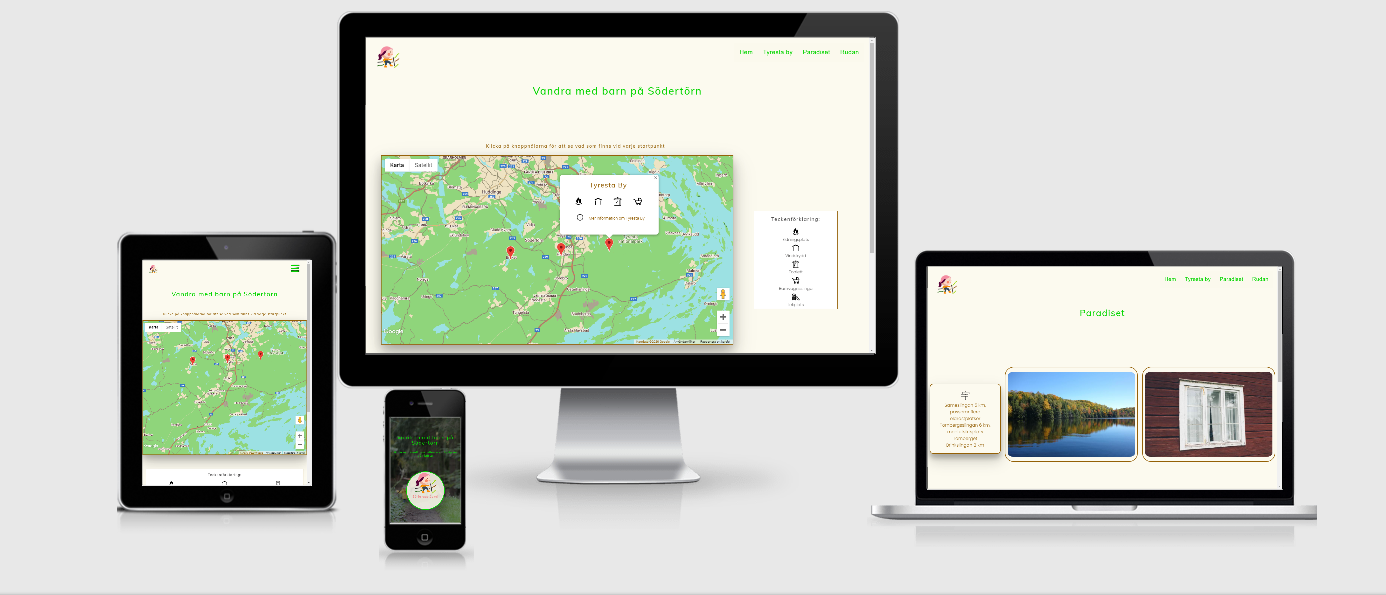
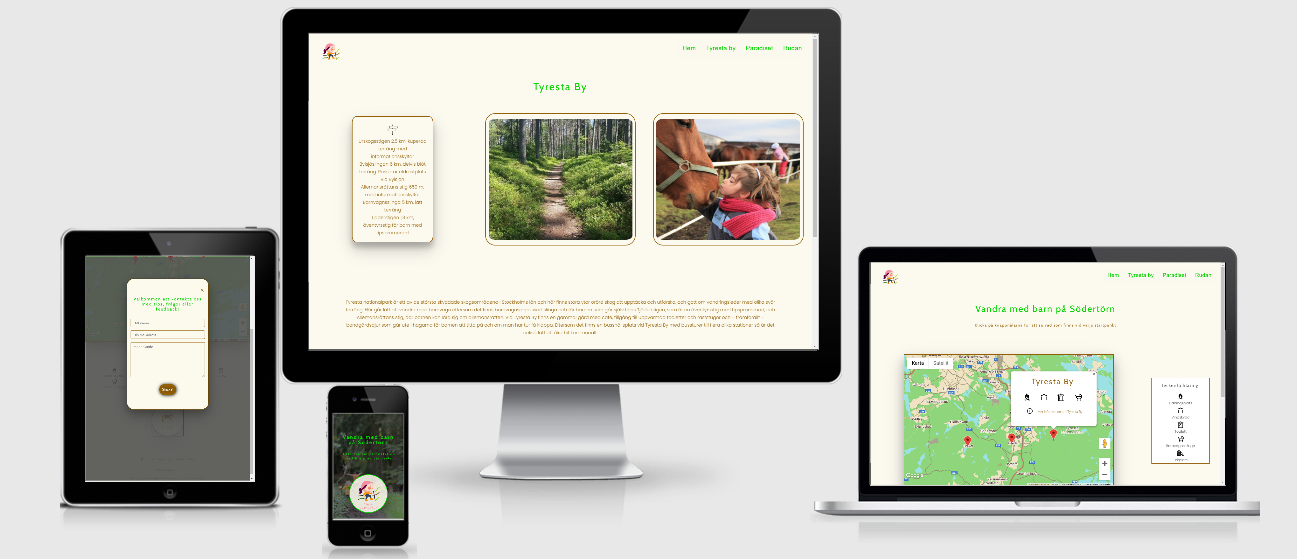
Added screenshots of website in user stories testing

diff --git a/assets/css/style.css b/assets/css/style.css
@@ -437,7 +437,10 @@ a {
 	.info-images {
 		padding: 1rem 0.5rem;
 		max-width: 31.25rem;
-	}
+    }
+    .contact-modal {
+        bottom: -30rem;
+    }
 	.footer-icon {
 		width: 2%;
 	}
@@ -497,8 +500,7 @@ a {
 	}
 	.contact-btn {
 		margin: 6rem 0 3rem;
-	}
-}
+    }
 
 @media screen and (min-width: 1200px) {
 	.landing-content {
@@ -509,4 +511,4 @@ a {
 		width: 60%;
 		margin: 2rem 7.5rem;
 	}
-}
+}}

diff --git a/TESTING.md b/TESTING.md
@@ -28,8 +28,11 @@ The page has been manually tested on the functionality of the following:
 ### User stories testing
 
 1. As a first time user, I want to quickly get an overview of what this site is for 
+
     * The landing page displays an image showing an adult and several children walking in nature, and the heading on this page tells that ypu can find places to hike with your children
       with the help from this site
+
+![Image of landing page](./assets/images/landing-page.png)
 
 2. As a user, I want to be able to easily navigate to different pages on the site and back again
 
@@ -37,10 +40,17 @@ The page has been manually tested on the functionality of the following:
     * A logo is present in navigation bar, in the top left hand side of the screen, on all pages except for landing page, and this logo when clicked takes the user back to landing pag
     * The footer contains link to all pages except from landing page, which ensures that the user can navigate to different pages from the bottom of pages as well
 
+![Image of navigation bar](./assets/images/navbar.png)
+![Image of footer navigation links](./assets/images/footer.png)
+
 2. As a hiker with children, I want to easily find suitable hiking trails in the area of Södertörn
+
     * The map page provides a map showing the area of Södertörn with pins marking different locations from where the user can access hiking trails in this area
     * When the user clicks a pin on the map an info window appears and shows an overview of what services are accessible on that location, providing the user with information aiding 
       in a decision about what hiking trail might be suitable
+
+![Image of map with pins](./assets/images/map.png)
+![Image of info-window](./assets/images/info-window.png)
 
 3. As a hiker with children, I want to find out if the starting points/hiking trails provide access to:
  * Prepared fireplaces so I can make warm food for myself and the children
@@ -51,19 +61,27 @@ The page has been manually tested on the functionality of the following:
      * The info windows that appear when the user clicks on a pin on the map contains icons that show if each of the above services are available from the location. The meaning of
        the icons are explained in a text box next to the map.
      * The info pages about the locations contains information about the length of the trails available from each location
-  
+
+![Image of info-window](./assets/images/info-window.png)
+![Image of trail-info](./assets/images/trail-info.png) 
 
 4. As a hiker with children, I want to be able to find more in-depth information about and some pictures of the different trails and starting points so I can show them to my children 
    and spark their interest in going there
+
      * The info pages about each location contains in-depth information and images of that location
      * The information provided is of a suitable length to be read to children without them losing their interest
      * There are only two images on each page and they are chosen to show some the characteristics of the location that could be of interest to a child
 
+![Image of images on info-page](./assets/images/info-images.png) 
+![Image of text on info-page](./assets/images/info-text.png) 
+
 5. As a user, I want to be able to contact the website administrator to alert them if something on the site is not working, or to suggest another
    starting point to be added to the site
+
      * All pages except for the landing page contains a contact button above the footer. By clicking the contact button the user gets access to a contact form which sends emails
        directly to the site administrator
-
+![Image of contact-button](./assets/images/contact-btn.png) 
+![Image of contact-form](./assets/images/contact-form.png) 
        
 
 

diff --git a/README.md b/README.md
@@ -312,7 +312,7 @@ now be created locally on your machine.
 * Send button created with, and its code copied from, [CSS Button creator](https://cssbuttoncreator.com/)
 
 * Dark layer on background image on landing page: 
-  [Thread on stack overflow](https://stackoverflow.com/questions/5770341/i-do-not-want-to-inherit-the-child-opacity-from-the-parent-in-css) 
+  [Thread on stack overflow](https://stackoverflow.com/questions/5770341/i-do-not-want-to-inherit-the-child-opacity-from-the-parent-in-css) and
   [Webdesign blog](https://webdesign.tutsplus.com/articles/css-tips-for-better-color-and-contrast-accessibility--cms-34472)
 
 
@@ -321,7 +321,7 @@ now be created locally on your machine.
 
 * Thanks to tutor support for helpful guidance with debugging issues
 
-* 
+* Thanks to mentor Sinead O'Brien for valuable input and guidance
 
 
 
